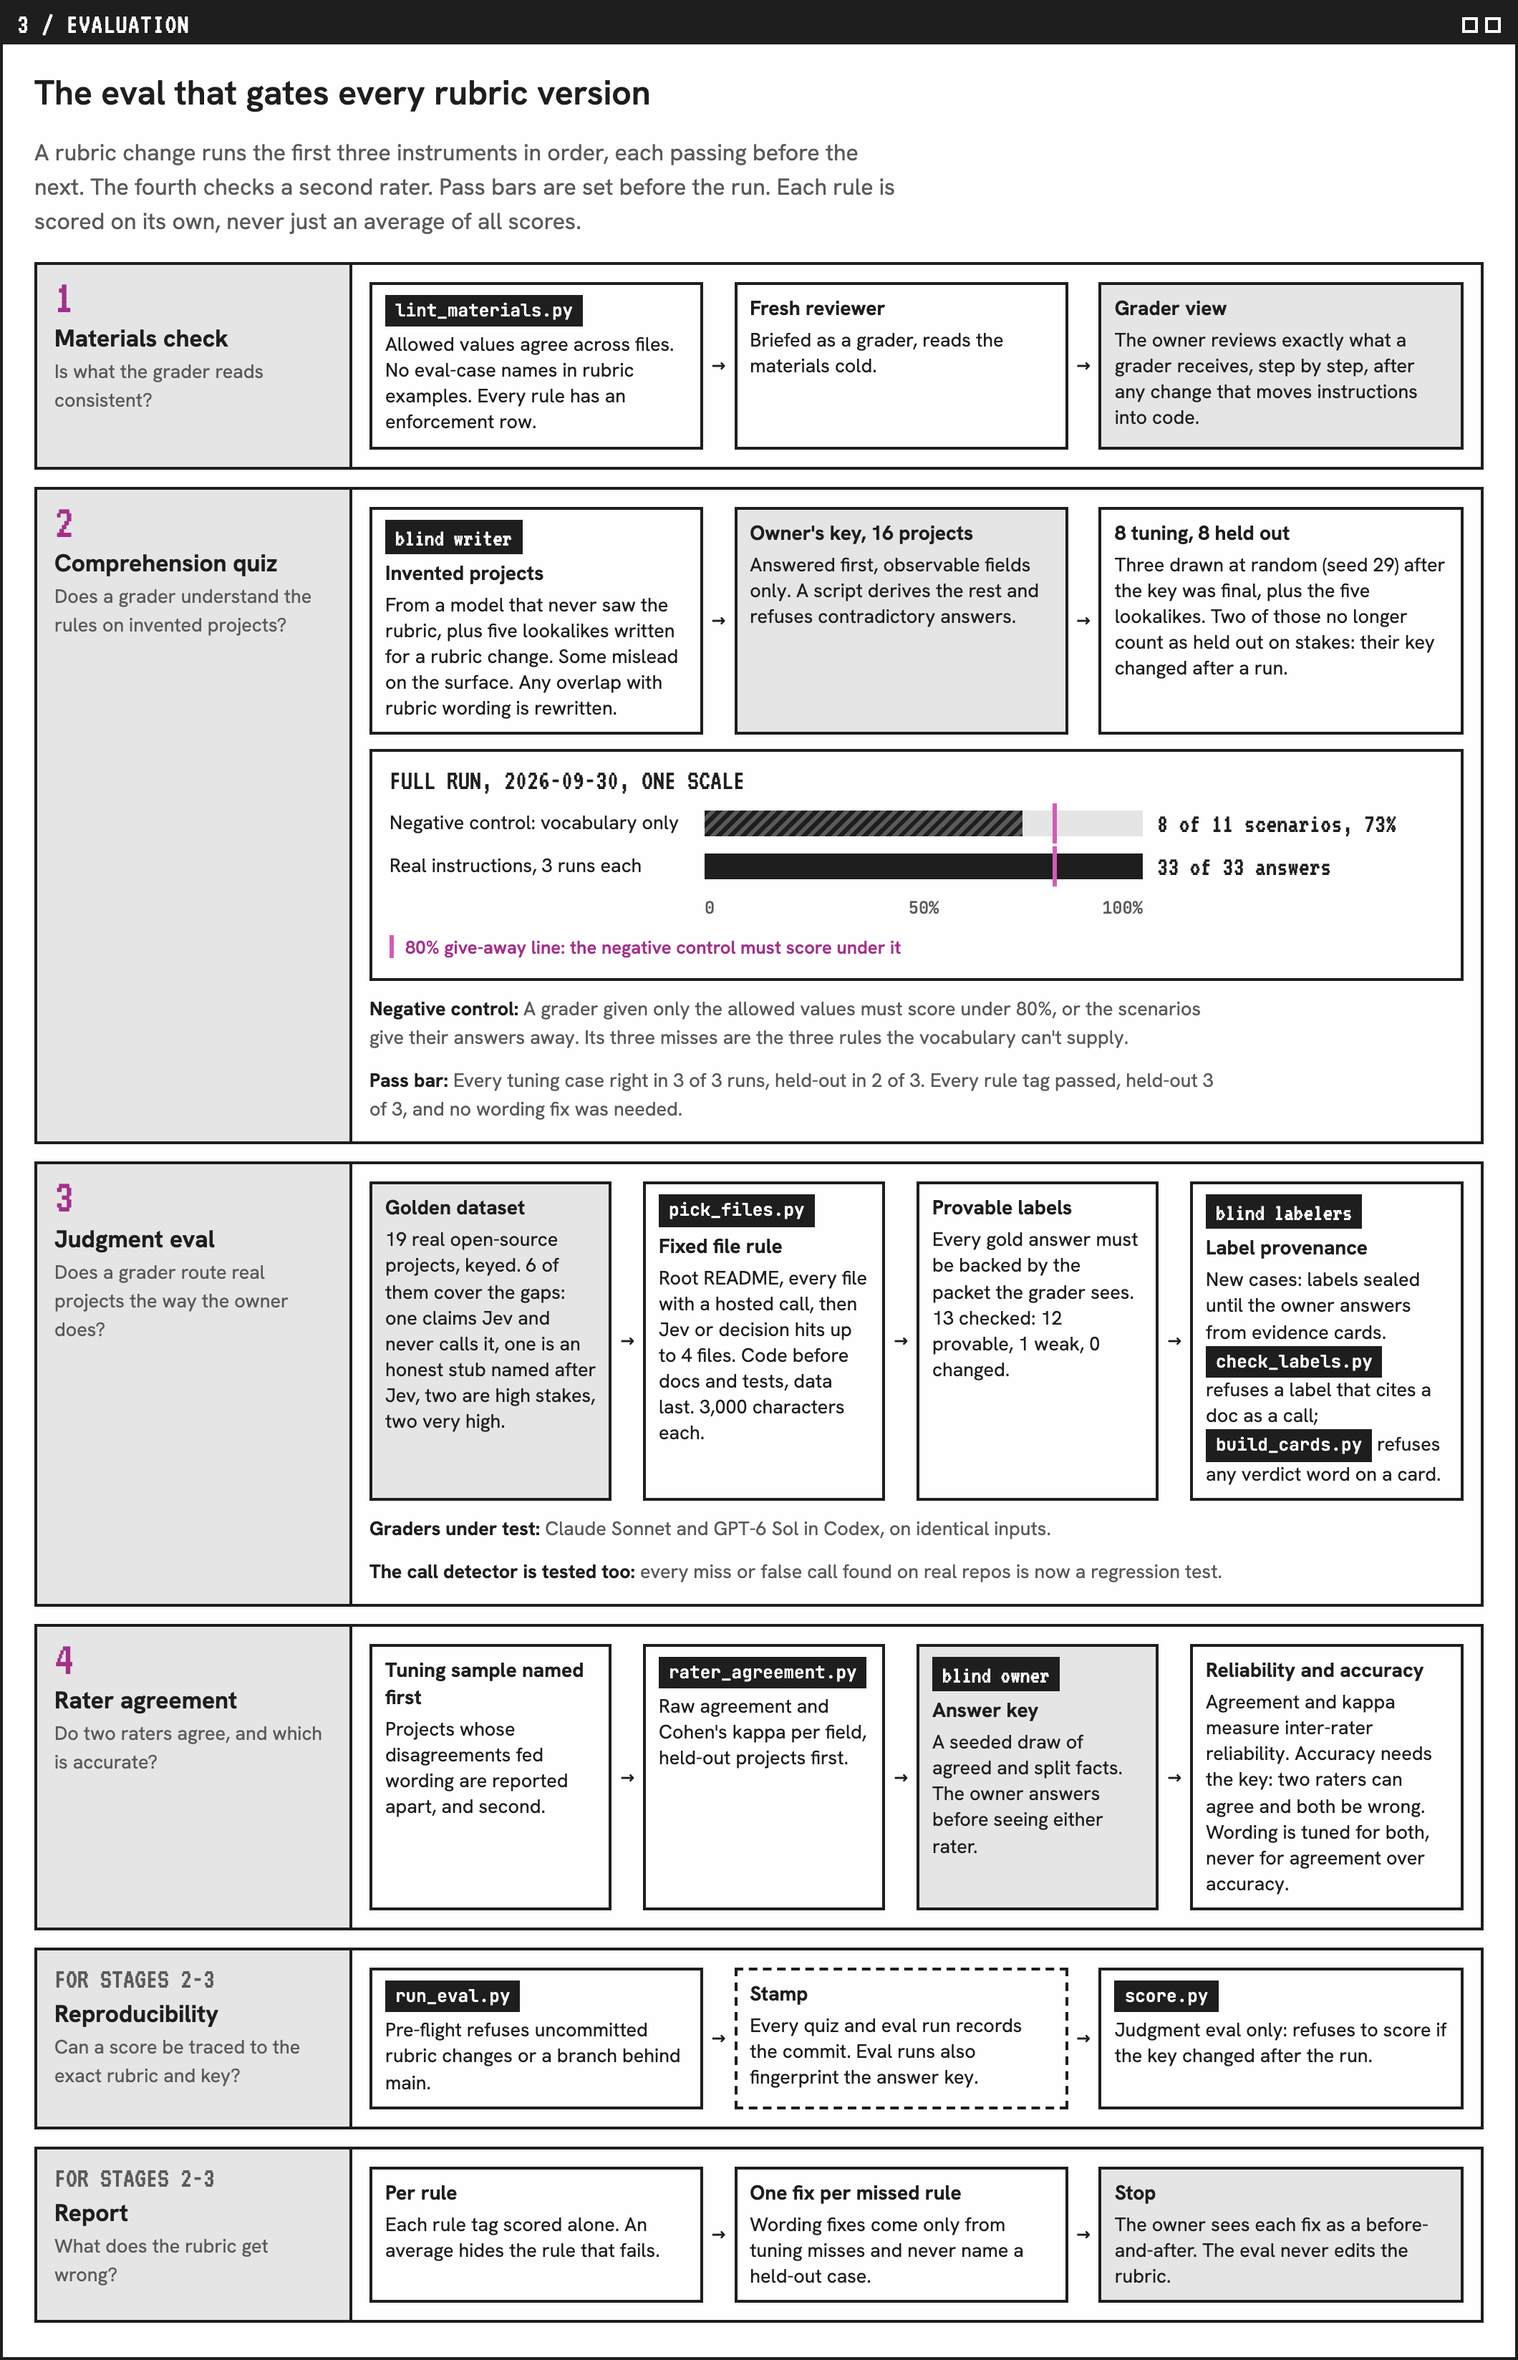
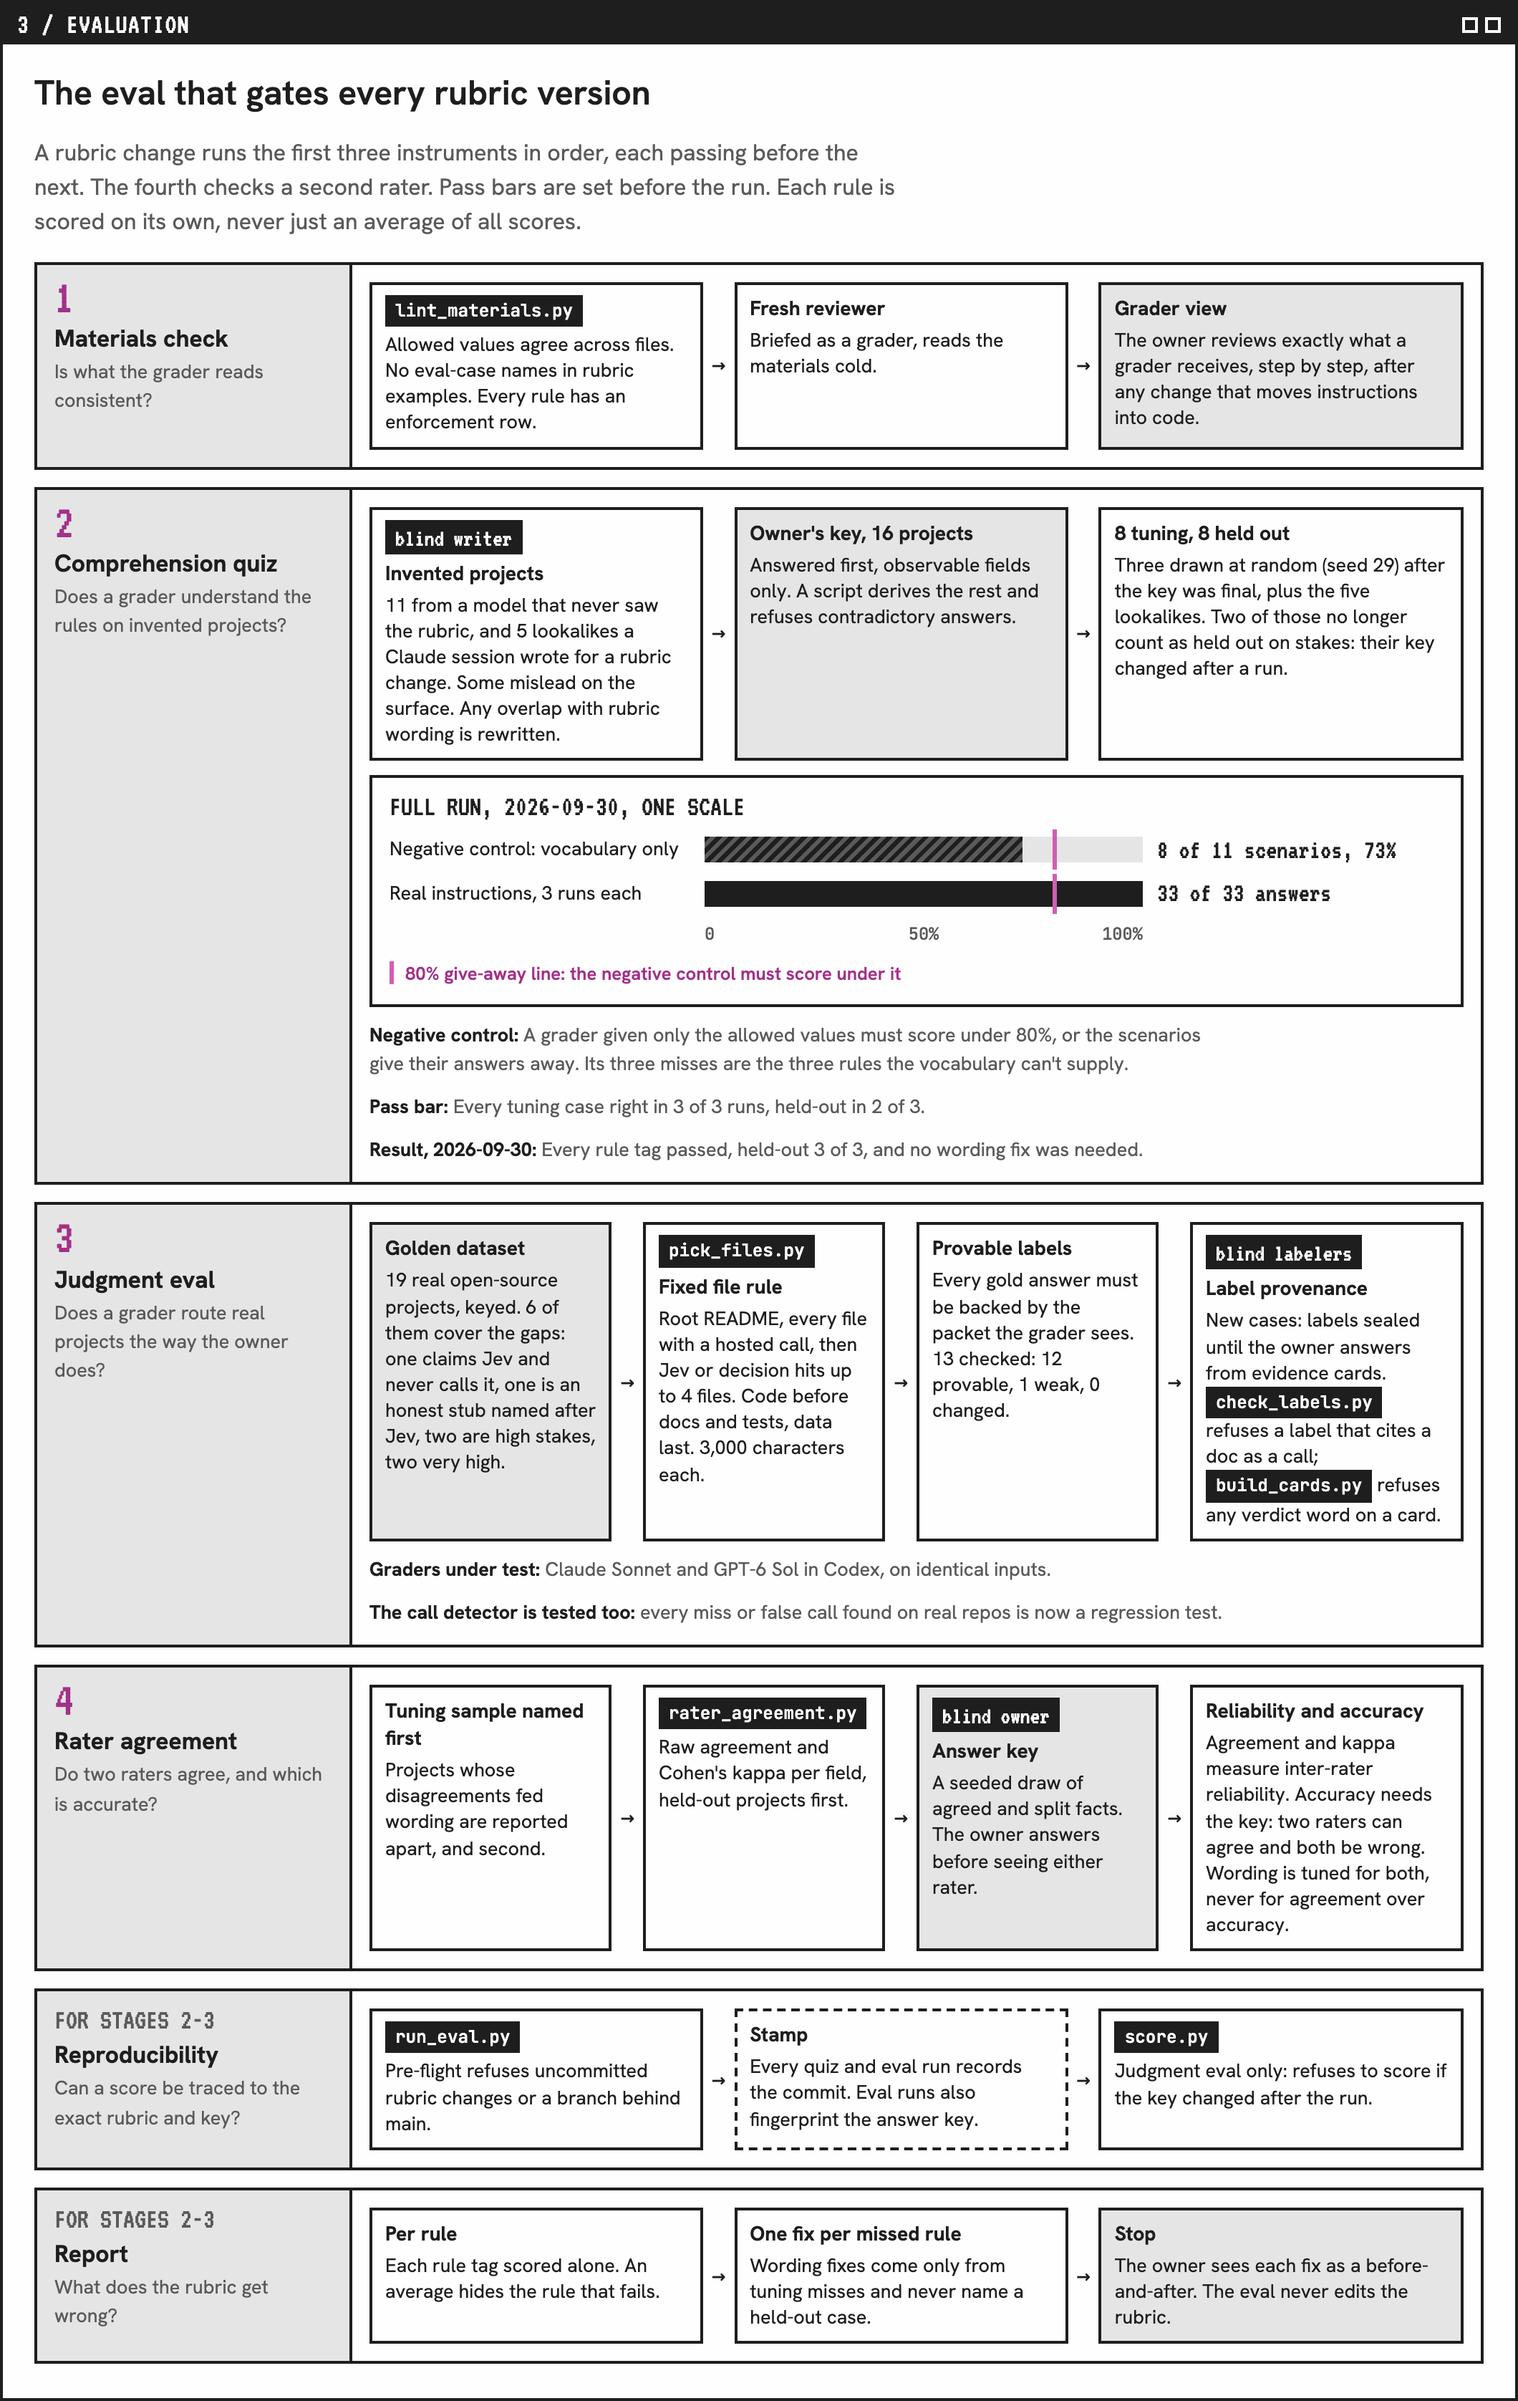
Gate fixes: owner rules only on verdict-changing splits, who wrote the quiz, pass bar apart from the result, verdict-1 codes, rubric terms; ratings README matches round step 6
Claude-Session: https://claude.ai/code/session_01S7qc76Bp8CXARyPGK6Ar4w

Changed region(s): [[0.0, 0.0312, 0.9651, 0.9688]]

diff --git a/system/index.html b/system/index.html
@@ -303,7 +303,7 @@ footer.foot { font-family: var(--mono); font-size: .72rem; color: var(--dim); te
           <li><span class="scr">library.py add</span></li>
           <li><span class="st">adjudicated</span></li>
           <li><span class="scr">dispute_packet.py</span></li>
-          <li><span class="st">owner rules</span></li>
+          <li><span class="st">owner rules on verdict-changing splits</span></li>
           <li><span class="scr">library.py review</span></li>
           <li><span class="st">final gate</span></li>
         </ol>
@@ -459,7 +459,7 @@ footer.foot { font-family: var(--mono); font-size: .72rem; color: var(--dim); te
   <text class="qt mid" x="131" y="671">Facts</text><text id="ph1" class="sm dim mid" x="131" y="689">23 rule checks, each with evidence</text>
   <line class="ln" x1="232" y1="674" x2="276" y2="674" marker-end="url(#ah)"/>
   <rect class="box" x="276" y="650" width="202" height="48"/>
-  <text class="qt mid" x="377" y="671">Scores and stages</text><text id="ph2" class="sm dim mid" x="377" y="689">0-3 on 4 areas; build steps covered</text>
+  <text class="qt mid" x="377" y="671">Scores and stages</text><text id="ph2" class="sm dim mid" x="377" y="689">0-3 on 4 areas; build stages</text>
   <line class="ln" x1="478" y1="674" x2="522" y2="674" marker-end="url(#ah)"/>
   <rect class="box" x="522" y="650" width="202" height="48"/>
   <text class="qt mid" x="623" y="671">Comparison cards</text><text id="ph3" class="sm dim mid" x="623" y="689">similar ratings and its last one</text>
@@ -509,7 +509,7 @@ footer.foot { font-family: var(--mono); font-size: .72rem; color: var(--dim); te
         <header><span class="n">2</span><h3>Comprehension quiz</h3><p>Does a grader understand the rules on invented projects?</p></header>
         <div class="body">
           <ol class="chain">
-            <li><div class="cell"><span class="tag blind">blind writer</span><b>Invented projects</b><span>From a model that never saw the rubric, plus five lookalikes written for a rubric change. Some mislead on the surface. Any overlap with rubric wording is rewritten.</span></div></li>
+            <li><div class="cell"><span class="tag blind">blind writer</span><b>Invented projects</b><span>11 from a model that never saw the rubric, and 5 lookalikes a Claude session wrote for a rubric change. Some mislead on the surface. Any overlap with rubric wording is rewritten.</span></div></li>
             <li><div class="cell pk"><b>Owner's key, 16 projects</b><span>Answered first, observable fields only. A script derives the rest and refuses contradictory answers.</span></div></li>
             <li><div class="cell"><b>8 tuning, 8 held out</b><span>Three drawn at random (seed 29) after the key was final, plus the five lookalikes. Two of those no longer count as held out on stakes: their key changed after a run.</span></div></li>
           </ol>
@@ -521,7 +521,8 @@ footer.foot { font-family: var(--mono); font-size: .72rem; color: var(--dim); te
             <p class="thl"><i></i>80% give-away line: the negative control must score under it</p>
           </div>
           <p class="note"><b>Negative control:</b> A grader given only the allowed values must score under 80%, or the scenarios give their answers away. Its three misses are the three rules the vocabulary can't supply.</p>
-          <p class="note"><b>Pass bar:</b> Every tuning case right in 3 of 3 runs, held-out in 2 of 3. Every rule tag passed, held-out 3 of 3, and no wording fix was needed.</p>
+          <p class="note"><b>Pass bar:</b> Every tuning case right in 3 of 3 runs, held-out in 2 of 3.</p>
+          <p class="note"><b>Result, 2026-09-30:</b> Every rule tag passed, held-out 3 of 3, and no wording fix was needed.</p>
         </div>
       </li>
 
@@ -578,7 +579,7 @@ footer.foot { font-family: var(--mono); font-size: .72rem; color: var(--dim); te
     <table class="tbl">
       <thead><tr><th scope="col">Who</th><th scope="col">Blind to</th><th scope="col">Why</th><th scope="col">Guards against</th></tr></thead>
       <tbody>
-        <tr><th scope="row">Scenario writer</th><td data-k="Blind to">The rubric and the answer keys</td><td data-k="Why">Scenarios that echo rubric wording test string matching, not understanding.</td><td data-k="Guards against"><span class="tag">leakage</span></td></tr>
+        <tr><th scope="row">Scenario writer, 11 of 16 quiz projects</th><td data-k="Blind to">The rubric and the answer keys</td><td data-k="Why">Scenarios that echo rubric wording test string matching, not understanding.</td><td data-k="Guards against"><span class="tag">leakage</span></td></tr>
         <tr><th scope="row">The owner, setting the key</th><td data-k="Blind to">Every model answer and the controller's reading, until the key is set</td><td data-k="Why">Golden labels can't anchor on a model.</td><td data-k="Guards against"><span class="tag">anchoring</span></td></tr>
         <tr><th scope="row">The owner, ruling on a disagreement</th><td data-k="Blind to">Which rater gave which answer: two answers, A and B, in seeded order, with the rule and the code</td><td data-k="Why">A ruling can't lean toward one model.</td><td data-k="Guards against"><span class="tag">anchoring</span></td></tr>
         <tr><th scope="row">Blind labelers</th><td data-k="Blind to">The rubric's accept lists and each other's labels. Labels stay sealed until the owner answers.</td><td data-k="Why">An independent second opinion that can't touch the key.</td><td data-k="Guards against"><span class="tag">leakage</span><span class="tag">anchoring</span></td></tr>

diff --git a/jevaluate/README.md b/jevaluate/README.md
@@ -28,7 +28,7 @@ The rater picks the verdict, never an average; code refuses one above these rule
 | **4&nbsp;Use&nbsp;it** | Correct use, minor gaps | Execution and Fit 2 or better, no failed core fact |
 | **3&nbsp;Use&nbsp;with&nbsp;a&nbsp;fix** | Right idea, fixable flaws | A failed core fact, or results claimed with no measurement |
 | **2&nbsp;Rework&nbsp;it** | Core rules broken | Execution 1 or 0, or a fatal flaw: Jev computes values, or confidence is ignored on a high-stakes action |
-| **1&nbsp;with&nbsp;a&nbsp;code** | Not rated on the scale | Guides and Jev replacements aren't rated yet; [1a](rubric.md) flags false marketing: claims Jev, never calls it |
+| **1&nbsp;with&nbsp;a&nbsp;code** | Not rated on the scale | Guides and Jev replacements aren't rated yet. [1a](rubric.md): false marketing, claims Jev and never calls it; 1b: no call claimed; 1c: ignores Jev's answers |
 | **Can't&nbsp;rate&nbsp;yet** | Too little visible to judge | README only, or no traced call to Jev found yet |
 
 ## How it works
@@ -42,10 +42,10 @@ The rater picks the verdict, never an average; code refuses one above these rule
 
 ## Code keeps raters on track
 
-In round 1, a rater recorded a partial read as a full one, and a rating with 10 of 24 facts unknown passed as a 4. Now scripts run the steps:
+In round 1, a rater recorded a partial read as a full one, and a rating with 10 of 24 round-1 facts unknown passed as a 4. Now scripts run the steps:
 
 - `step.py` serves the rubric one part at a time, in the order above, with only the rows that apply to this project.
-- Raters can't skip ahead: routing changed after the facts is refused, the previous rating appears only after the facts and scores, and a transcript scan flags a rater that opens the rubric or past ratings directly.
+- Raters can't skip ahead: routing changed after the facts is refused, the previous rating appears only after the facts and scores, and a transcript scan flags a rater that opens the rubric or past ratings.
 - `library.py check` refuses a rating that breaks a rule and names the line to redo; `add` fills in the kind, the top stakes and every "not applicable".
 
 <a href="https://tiffygk.github.io/jev-mode/system/#d2-h"><picture><source media="(prefers-color-scheme: dark)" srcset="images/routing-dark.png"><img alt="Routing flowchart" src="images/routing-light.png"></picture></a>

diff --git a/ratings/README.md b/ratings/README.md
@@ -22,7 +22,7 @@ Open an issue if you disagree with a rating, if you've shipped improvements and 
 
 ## Still improving
 
-The Jevaluate skill is still early and doesn't handle edge cases well. The rubric, the rule set and the eval harness are still being tuned, so the AI raters will get more reliable. Until then, I regularly check new ratings, audit samples of them and rule on every verdict disagreement. As I keep improving it, some ratings will be redone. If one reads as too harsh or too generous, I'm sorry. Tell me in an issue, and it will help the next version.
+The Jevaluate skill is still early and doesn't handle edge cases well. The rubric, the rule set and the eval harness are still being tuned, so the AI raters will get more reliable. Until then, I regularly check new ratings, audit samples of them and rule on each verdict-changing disagreement that no written ruling settles. As I keep improving it, some ratings will be redone. If one reads as too harsh or too generous, I'm sorry. Tell me in an issue, and it will help the next version.
 
 The goal is a Jev community that uplevels itself, sharing resources built on the best practices TypeSafe has already laid out.
 

diff --git a/jevaluate/ratings-template/README.md b/jevaluate/ratings-template/README.md
@@ -22,6 +22,6 @@ Open an issue if you disagree with a rating, if you've shipped improvements and 
 
 ## Still improving
 
-The Jevaluate skill is still early and doesn't handle edge cases well. The rubric, the rule set and the eval harness are still being tuned, so the AI raters will get more reliable. Until then, I regularly check new ratings, audit samples of them and rule on every verdict disagreement. As I keep improving it, some ratings will be redone. If one reads as too harsh or too generous, I'm sorry. Tell me in an issue, and it will help the next version.
+The Jevaluate skill is still early and doesn't handle edge cases well. The rubric, the rule set and the eval harness are still being tuned, so the AI raters will get more reliable. Until then, I regularly check new ratings, audit samples of them and rule on each verdict-changing disagreement that no written ruling settles. As I keep improving it, some ratings will be redone. If one reads as too harsh or too generous, I'm sorry. Tell me in an issue, and it will help the next version.
 
 The goal is a Jev community that uplevels itself, sharing resources built on the best practices TypeSafe has already laid out.

diff --git a/jevaluate-eval/rater-agreement.md b/jevaluate-eval/rater-agreement.md
@@ -5,7 +5,7 @@ Instrument 4. It answers two questions about a second rater, such as a different
 1. **Consistency:** do the two raters read the rubric the same way? The measure is agreement.
 2. **Accuracy:** is either rater right? The measure is an answer key the owner labels.
 
-Agreement alone never shows accuracy. Two raters reading the same rubric can agree and both be wrong.
+Agreement alone never shows accuracy. Two raters reading the same rubric can agree and both be wrong. Tune rubric wording for both, never for agreement over accuracy.
 
 Script: `rater_agreement/rater_agreement.py` (its `--help` lists the commands). It reads the library that `JEVALUATE_LIBRARY` points to.
 
